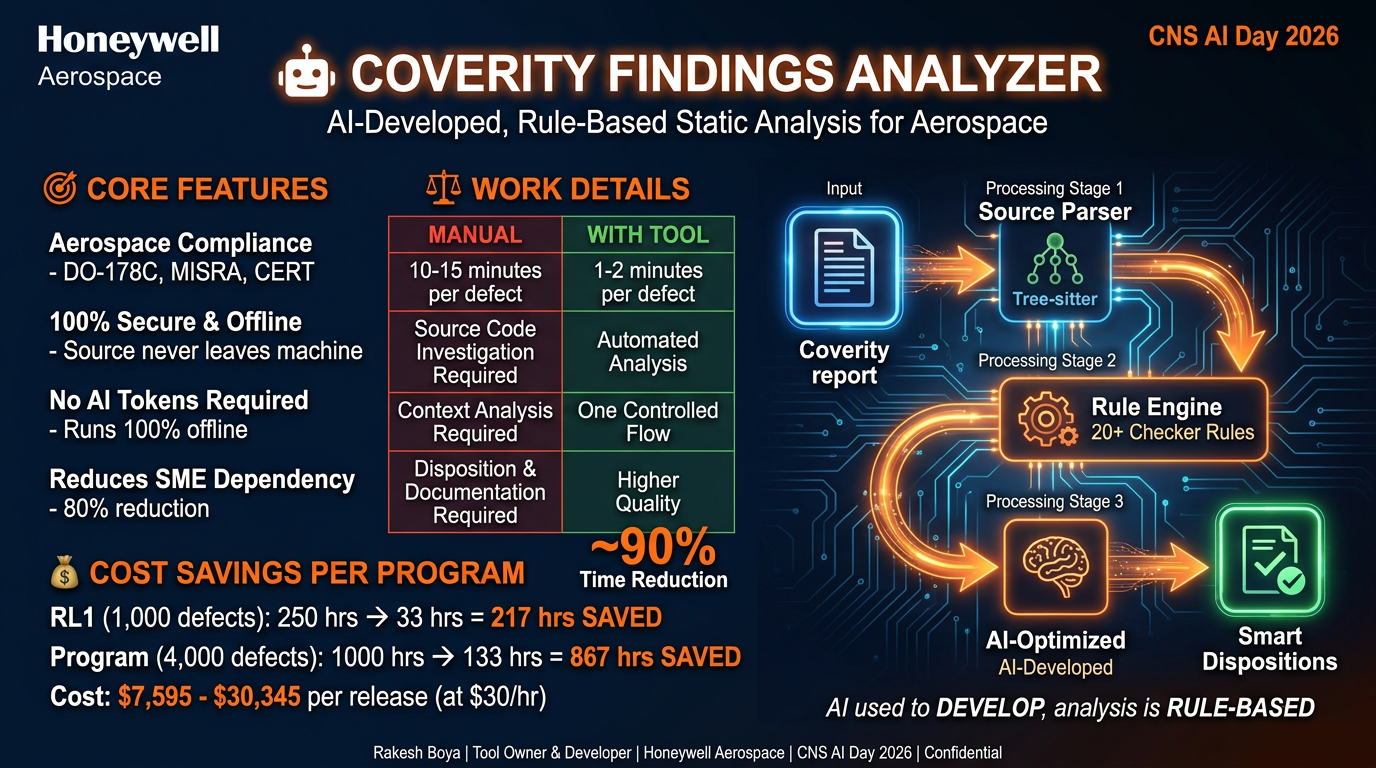
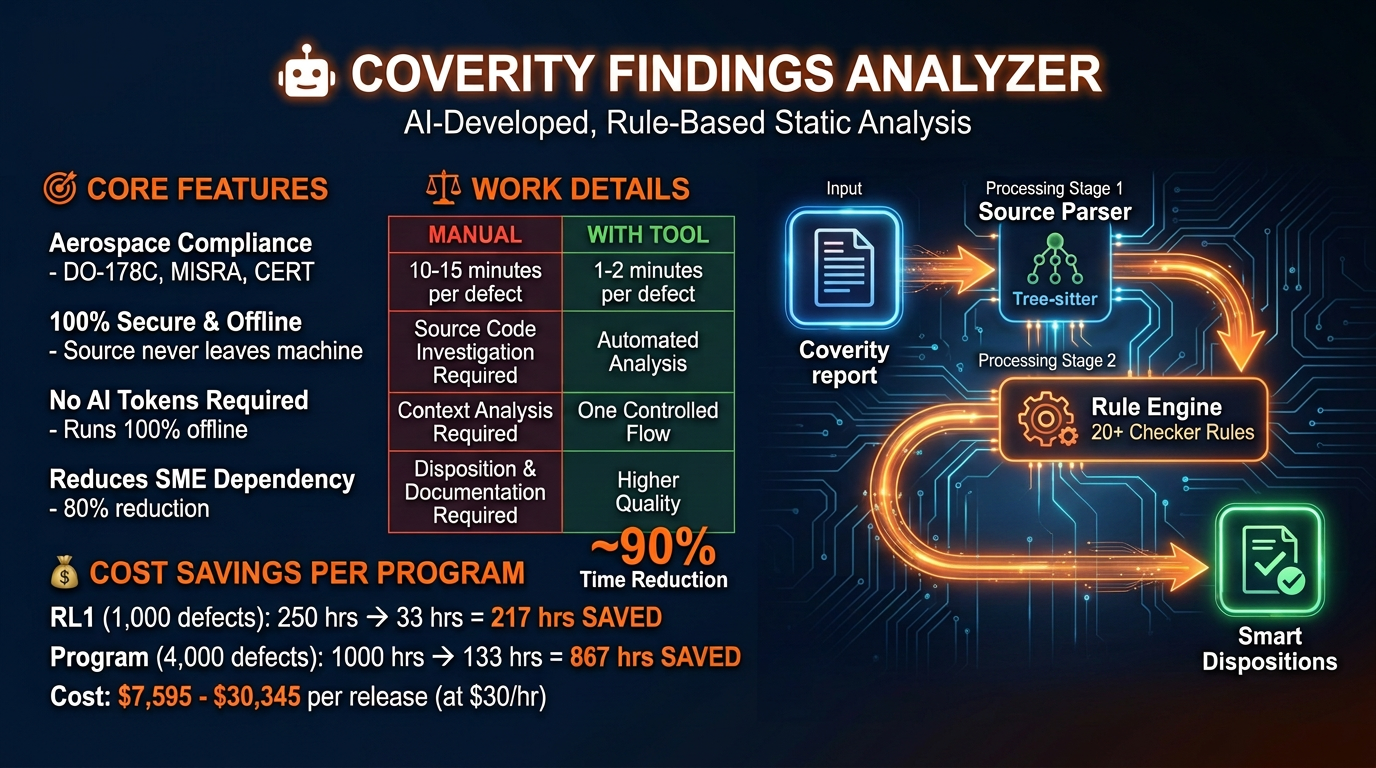
Update Coverity slide: remove header/footer branding, update subtitle, and streamline flow without Stage 3

diff --git a/build_slide.py b/build_slide.py
@@ -1,11 +1,10 @@
 """
 Generate Coverity Findings Analyzer slide as an editable PowerPoint.
-Fixes applied:
-  1. Cost rate corrected from $30/hr -> $35/hr (matches $7,595 and $30,345 figures)
-  2. Cost line labeled: RL1: $7,595 | Program: $30,345
-  3. Stage 3 label simplified: "AI-Optimized Analysis" (removed redundant "AI-Developed")
-  4. Added icons to comparison table rows
-  5. Footer split into two lines for readability
+Updates applied:
+  1. Removed Honeywell Aerospace and CNS AI Day 2026 at the top
+  2. Removed "for Aerospace" from subtitle
+  3. Removed Processing Stage 3 fully and adjusted flow: Rule Engine -> Smart Dispositions
+  4. Removed footer with Rakesh Boya and other metadata
 """
 
 from pptx import Presentation
@@ -90,41 +89,27 @@ def add_rect_straight(left, top, width, height, fill_color, border_color=None, b
         shape.line.fill.background()
     return shape
 
-# ═════════════════════════════════════════════
+# ══════════════════════════════════════════════
 # TITLE AREA
 # ══════════════════════════════════════════════
 
-# Honeywell Aerospace label
-add_text(0.4, 0.15, 2.5, 0.4, "Honeywell", font_size=18,
-         color=WHITE, bold=True, font_name='Calibri')
-add_text(0.4, 0.5, 2.5, 0.3, "Aerospace", font_size=14,
-         color=WHITE_DIM, font_name='Calibri')
-
 # Robot emoji placeholder - use a circle shape as icon
-icon = slide.shapes.add_shape(MSO_SHAPE.OVAL, Inches(3.0), Inches(0.1),
+icon = slide.shapes.add_shape(MSO_SHAPE.OVAL, Inches(2.6), Inches(0.12),
                               Inches(0.45), Inches(0.45))
 icon.fill.solid()
 icon.fill.fore_color.rgb = ORANGE
 icon.line.fill.background()
 
-# Main title
-add_text(3.5, 0.05, 7.0, 0.5, "COVERITY FINDINGS ANALYZER",
+# Main title (centered horizontally)
+add_text(3.1, 0.05, 7.5, 0.5, "COVERITY FINDINGS ANALYZER",
          font_size=26, color=ORANGE, bold=True,
          alignment=PP_ALIGN.LEFT, font_name='Calibri')
 
-# Subtitle
-add_text(2.2, 0.55, 9.0, 0.4,
-         "AI-Developed, Rule-Based Static Analysis for Aerospace",
+# Subtitle (without "for Aerospace", centered)
+add_text(2.0, 0.55, 9.333, 0.4,
+         "AI-Developed, Rule-Based Static Analysis",
          font_size=14, color=WHITE_DIM,
          alignment=PP_ALIGN.CENTER, font_name='Calibri')
-
-# CNS AI Day 2026 badge (top right)
-badge = add_rect(10.2, 0.08, 2.8, 0.45, BG_CARD, ORANGE, 1.5)
-badge.text_frame.text = "CNS AI Day 2026"
-badge.text_frame.paragraphs[0].font.size = Pt(13)
-badge.text_frame.paragraphs[0].font.color.rgb = ORANGE
-badge.text_frame.paragraphs[0].font.bold = True
-badge.text_frame.paragraphs[0].alignment = PP_ALIGN.CENTER
 
 # ── Horizontal divider ──
 divider = add_rect_straight(0.3, 0.95, 12.7, 0.02, ORANGE)
@@ -230,13 +215,12 @@ for item in cost_items:
              font_size=12, color=ORANGE, bold=True)
     y += 0.3
 
-# FIXED: cost line with correct rate and labeled
 add_text(0.5, y + 0.02, 6.5, 0.28,
          "RL1: $7,595  |  Program: $30,345  per release (at $35/hr)",
          font_size=12, color=YELLOW, bold=True)
 
-# ═════════════════════════════════════════════
-# RIGHT SIDE: FLOW DIAGRAM
+# ══════════════════════════════════════════════
+# RIGHT SIDE: FLOW DIAGRAM (Adjusted: Stage 1 -> Stage 2 -> Smart Dispositions)
 # ══════════════════════════════════════════════
 
 flow_left = 8.2
@@ -300,7 +284,7 @@ arrow2.fill.fore_color.rgb = ORANGE
 arrow2.line.fill.background()
 
 # --- Stage 2: Rule Engine ---
-stage2_x = flow_left + 2.3
+stage2_x = flow_left + 2.1
 s2 = add_rect(stage2_x, 3.0, 2.4, 1.2, BG_CARD, ORANGE, 1.5)
 tf = s2.text_frame
 tf.vertical_anchor = MSO_ANCHOR.MIDDLE
@@ -323,49 +307,17 @@ p3.alignment = PP_ALIGN.CENTER
 add_text(stage2_x - 0.3, 2.7, 3.0, 0.25, "Processing Stage 2",
          font_size=9, color=WHITE_DIM, alignment=PP_ALIGN.CENTER)
 
-# Curved arrow: Rule Engine → Stage 3 (down-left)
-arrow3 = slide.shapes.add_shape(MSO_SHAPE.LEFT_ARROW,
-                                Inches(stage2_x + 0.1), Inches(4.15),
-                                Inches(0.5), Inches(0.3))
+# Adjusted flow: Rule Engine → Smart Dispositions (direct curve/down-right into Output)
+arrow3 = slide.shapes.add_shape(MSO_SHAPE.DOWN_ARROW,
+                                Inches(stage2_x + 1.0), Inches(4.2),
+                                Inches(0.35), Inches(0.5))
 arrow3.fill.solid()
 arrow3.fill.fore_color.rgb = ORANGE
 arrow3.line.fill.background()
 
-# --- Stage 3: AI-Optimized Analysis ---
-stage3_x = flow_left + 0.3
-s3 = add_rect(stage3_x, 4.4, 2.2, 1.2, BG_CARD, ORANGE_LIGHT, 1.5)
-tf = s3.text_frame
-tf.vertical_anchor = MSO_ANCHOR.MIDDLE
-p = tf.paragraphs[0]
-p.text = "🧠"
-p.font.size = Pt(20)
-p.alignment = PP_ALIGN.CENTER
-p2 = tf.add_paragraph()
-p2.text = "AI-Optimized"
-p2.font.size = Pt(11)
-p2.font.color.rgb = ORANGE_LIGHT
-p2.font.bold = True
-p2.alignment = PP_ALIGN.CENTER
-p3 = tf.add_paragraph()
-p3.text = "Analysis"
-p3.font.size = Pt(11)
-p3.font.color.rgb = ORANGE_LIGHT
-p3.alignment = PP_ALIGN.CENTER
-
-add_text(stage3_x - 0.3, 4.1, 2.8, 0.25, "Processing Stage 3",
-         font_size=9, color=WHITE_DIM, alignment=PP_ALIGN.CENTER)
-
-# Arrow: Stage 3 → Smart Dispositions
-arrow4 = slide.shapes.add_shape(MSO_SHAPE.RIGHT_ARROW,
-                                Inches(stage3_x + 2.15), Inches(4.85),
-                                Inches(0.6), Inches(0.3))
-arrow4.fill.solid()
-arrow4.fill.fore_color.rgb = ORANGE
-arrow4.line.fill.background()
-
 # --- Output: Smart Dispositions ---
-out_x = stage3_x + 2.7
-out_box = add_rect(out_x, 4.4, 1.8, 1.2, BG_CARD, GREEN, 1.5)
+out_x = flow_left + 2.3
+out_box = add_rect(out_x, 4.8, 2.0, 1.2, BG_CARD, GREEN, 1.5)
 tf = out_box.text_frame
 tf.vertical_anchor = MSO_ANCHOR.MIDDLE
 p = tf.paragraphs[0]
@@ -385,28 +337,16 @@ p3.font.color.rgb = GREEN
 p3.alignment = PP_ALIGN.CENTER
 
 # ─ Key message below flow ──
-add_text(flow_left - 0.5, 5.95, 5.5, 0.3,
+add_text(flow_left - 0.5, 6.2, 5.5, 0.3,
          "AI used to DEVELOP, analysis is RULE-BASED",
          font_size=13, color=WHITE_DIM, bold=True,
-         alignment=PP_ALIGN.LEFT, font_name='Calibri')
-
-# ══════════════════════════════════════════════
-# FOOTER
-# ══════════════════════════════════════════════
-
-footer_line1 = add_text(0.3, 7.0, 12.5, 0.22,
-    "Rakesh Boya  |  Tool Owner & Developer  |  Honeywell Aerospace  |  CNS AI Day 2026",
-    font_size=9, color=GRAY, alignment=PP_ALIGN.CENTER)
-
-footer_line2 = add_text(0.3, 7.2, 12.5, 0.22,
-    "Confidential",
-    font_size=9, color=GRAY, bold=True, alignment=PP_ALIGN.CENTER)
+         alignment=PP_ALIGN.CENTER, font_name='Calibri')
 
 # ══════════════════════════════════════════════
 # SAVE
 # ══════════════════════════════════════════════
 
-output_path = "/home/user/Coverity-Tool/Coverity_Final_Slide_Updated.pptx"
+output_path = "/home/user/Coverity-Tool/Coverity_Findings_Analyzer.pptx"
 prs.save(output_path)
 print(f"✅ Saved: {output_path}")
 print(f"   File size: {os.path.getsize(output_path)} bytes")
